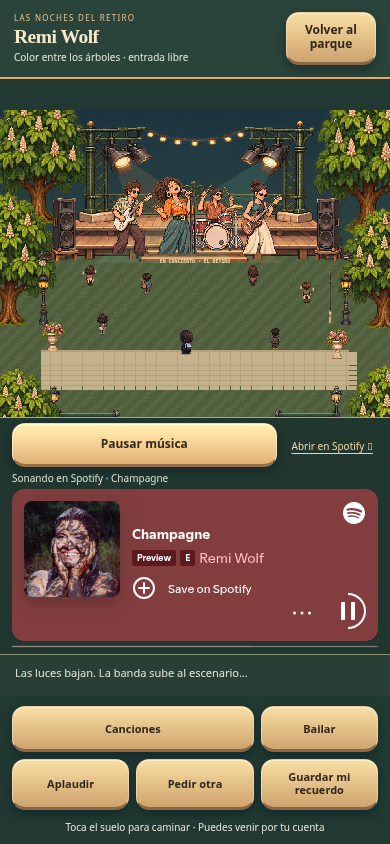
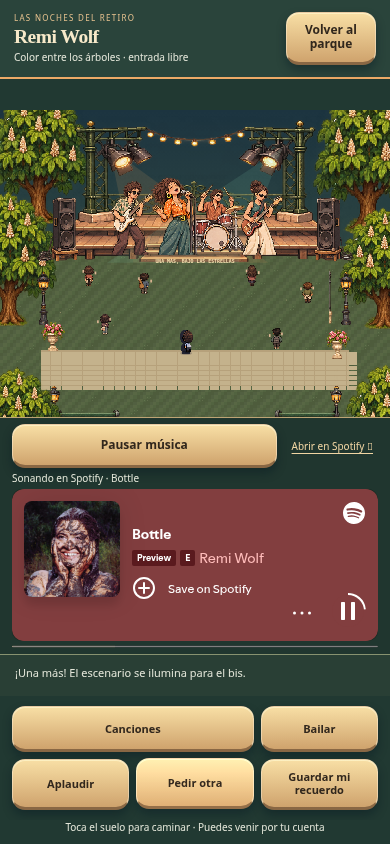
Registra pausa y cambio de canción verificados con Spotify real

diff --git a/docs/CONCIERTOS_EN_VIVO.md b/docs/CONCIERTOS_EN_VIVO.md
@@ -44,7 +44,9 @@ en cuenta el espacio ocupado por el nuevo reproductor.
 
 Se probó también el SDK y reproductor **reales**, sin cuenta, en Chromium con
 formato móvil: Spotify informó `playing`, con progreso 5.022 s y 10.223 s en una
-muestra disponible de 15.608 s de «Champagne». Esta es evidencia del reproductor,
+muestra disponible de 15.608 s de «Champagne». En una segunda ejecución también
+se comprobaron pausa, reanudación y cambio a «Bottle», con progreso 1.006 s y
+5.303 s sobre una muestra de 22.590 s. Esta es evidencia del reproductor,
 distinta de las pruebas simuladas. El contenedor exterior conserva permisos de
 autoplay y medios cifrados. No se ha probado en un iPhone físico ni con Spotify
 Premium. Spotify decide si ofrece muestra o canción completa; la animación no
